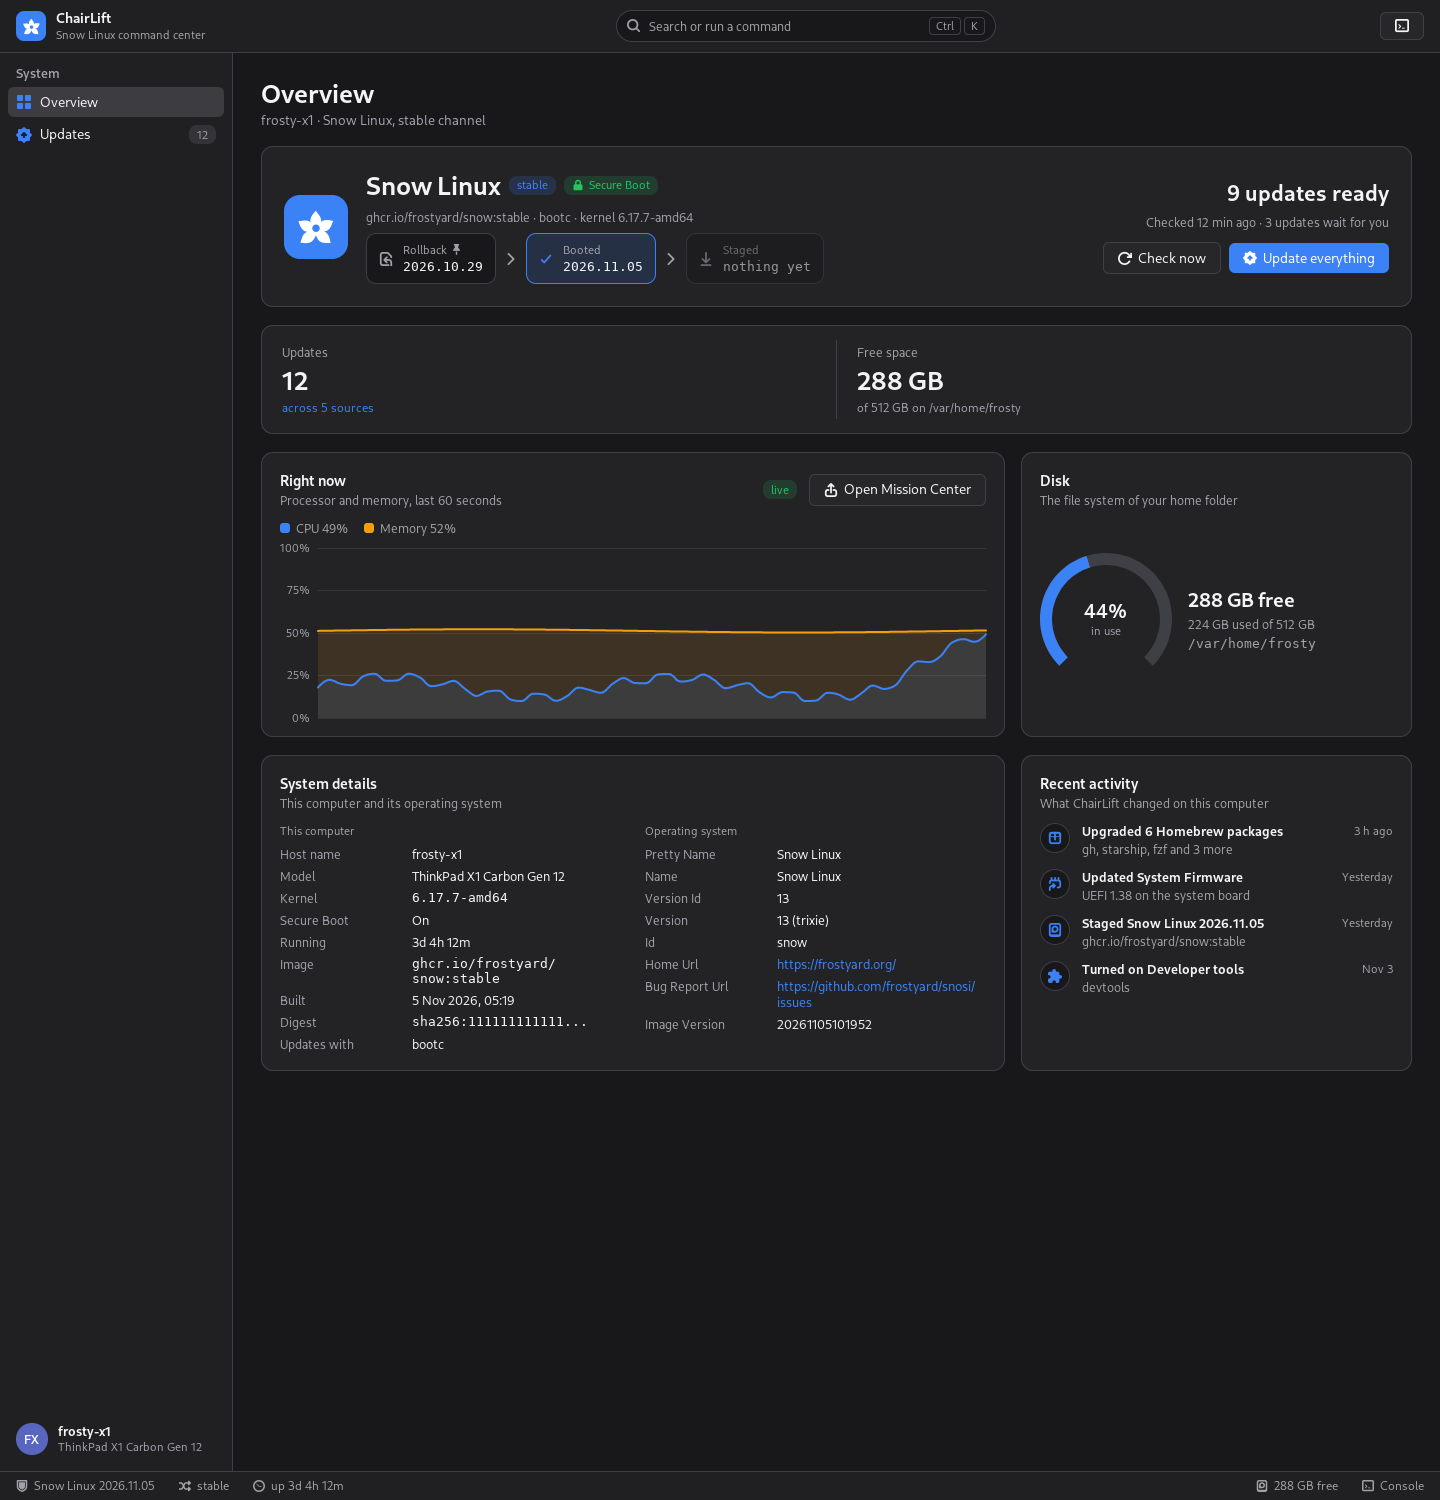
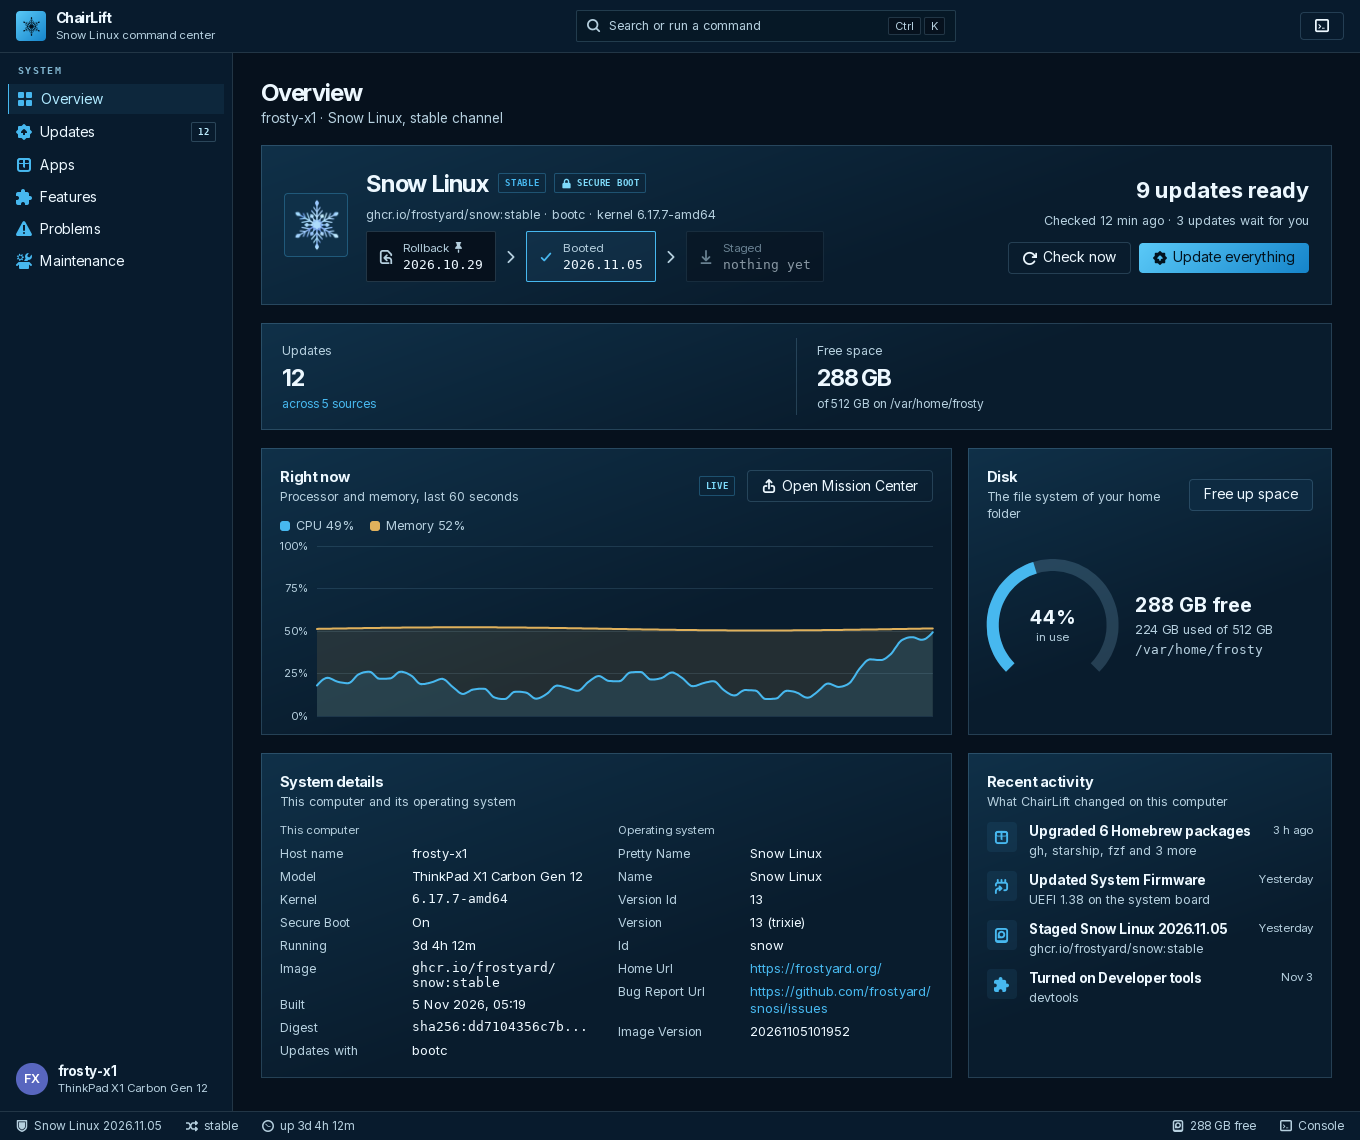
docs: show the Frostyard look in the README
Replace both README pictures with snapshots in frostui's Frostyard look:
the Overview in the dark theme (the main picture, now with all six pages
in the rail) and the Updates page during a run in the light theme. Their
alt text names the theme, a "Dark and light" bullet says when ChairLift
draws each, and CONTRIBUTING.md names the snapshot behind each picture.

diff --git a/README.md b/README.md
@@ -11,7 +11,7 @@ ChairLift is a desktop app for people who run [Snow Linux](https://github.com/fr
 
 **Documentation:** [docs/index.md](docs/index.md)
 
-![The Overview page: the system image, the updates waiting, live processor and memory use, the disk and recent activity](data/screenshots/overview.png)
+![The Overview page in the dark theme: the six pages in the rail, the system image, the updates waiting, live processor and memory use, the disk and recent activity](data/screenshots/overview.png)
 
 ## What it does
 
@@ -20,10 +20,11 @@ ChairLift is a desktop app for people who run [Snow Linux](https://github.com/fr
 - **Apps.** Every installed Flatpak app and Homebrew package in one table, curated Brewfile bundles, and Homebrew search.
 - **Features, Problems and Maintenance.** System extensions through updex, the problems recorded on this computer, and cleanups.
 - **Command palette, console and status bar.** Ctrl K finds and runs an action, Ctrl J shows the console, and the status bar shows the running job.
+- **Dark and light.** ChairLift draws Frostyard's dark theme when the desktop is dark and its light theme otherwise, and follows the desktop's text size and high-contrast setting.
 
 Every card sits behind a configuration group, so other distributions can turn off what they do not ship: [CONFIG.md](CONFIG.md).
 
-![The Updates page during an update run](data/screenshots/updates.png)
+![The Updates page in the light theme during an update run: each source's steps and state, with firmware waiting to be confirmed](data/screenshots/updates.png)
 
 ## Install
 

diff --git a/CONTRIBUTING.md b/CONTRIBUTING.md
@@ -75,9 +75,11 @@ function fields, so no test runs brew, flatpak, bootc, fwupdmgr, updex or
 pkexec, and keep decisions in the pure leaf packages under `internal/views/`.
 Set `CHAIRLIFT_SNAPSHOT_DIR` to make the snapshot tests write PNGs of the
 pages (`CHAIRLIFT_SNAPSHOT_DIR=/tmp/shots go test ./internal/views -run
-Snapshot`). To drive the real window, `make build-automation` builds
-`build/chairlift-automation`, which `mygo-automation` can control and capture
-(`MYGO_AUTOMATION=<socket>`); release builds carry no automation plugin. Name ordinary unit tests so they do not begin with `TestI` or contain
+Snapshot`). The README's pictures come from that run:
+`overview-full-dark.png` is `data/screenshots/overview.png` and
+`updates-running-light.png` is `data/screenshots/updates.png`. To drive the
+real window, `make build-automation` builds `build/chairlift-automation`, which
+`mygo-automation` can control and capture (`MYGO_AUTOMATION=<socket>`); release builds carry no automation plugin. Name ordinary unit tests so they do not begin with `TestI` or contain
 `Integration`; CI reserves those names for tests requiring a real environment.
 
 The enforced unit and race gates run tests under `internal/...`. Logic moved
